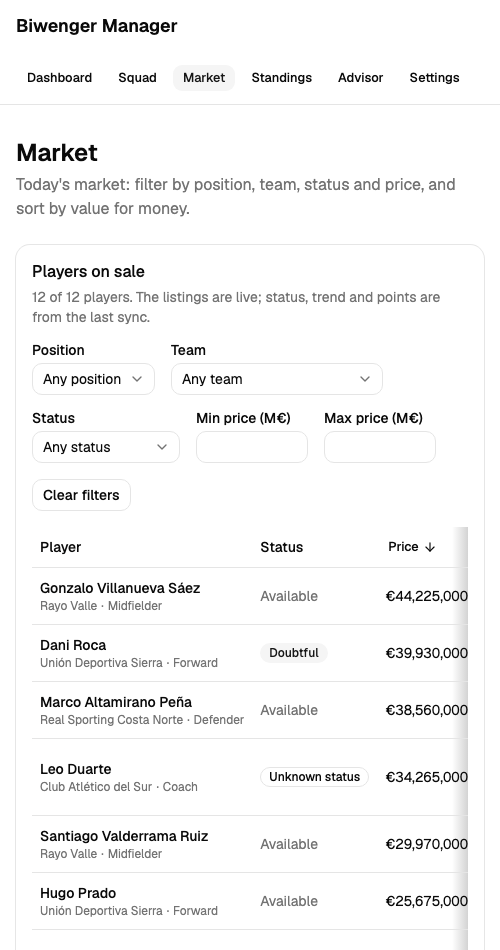
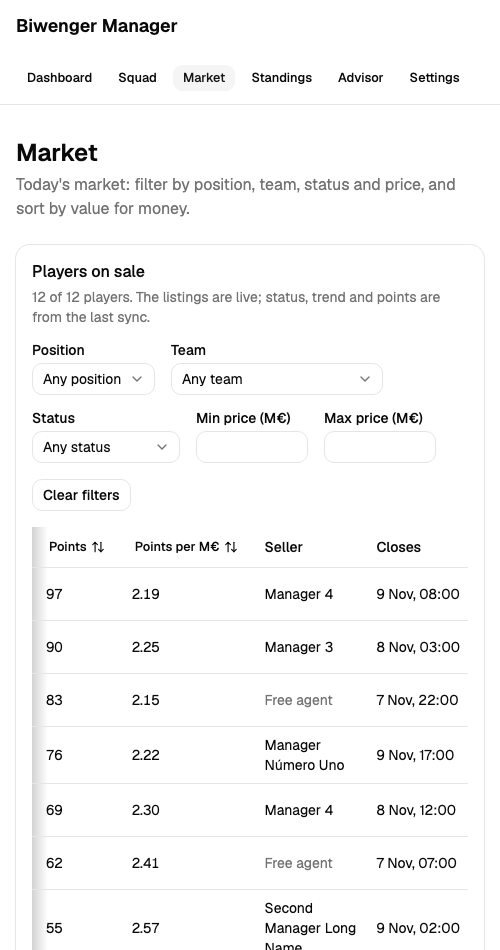
fix: keep short seller names on one line when the market table scrolls

diff --git a/frontend/src/features/market/MarketTable.tsx b/frontend/src/features/market/MarketTable.tsx
@@ -79,7 +79,7 @@ export function MarketTable({
             <TableCell className="tabular-nums">
               {pointsPerMillion.format(player.pointsPerMillion)}
             </TableCell>
-            <TableCell className="whitespace-normal">
+            <TableCell className="min-w-28 whitespace-normal">
               <SellerName seller={player.seller} />
             </TableCell>
             <TableCell>

diff --git a/docs/tutorial/journal/0092-market-table-width.md b/docs/tutorial/journal/0092-market-table-width.md
@@ -12,14 +12,14 @@
 
 1. **Reproduced the problem with harder data.** The demo server from [#93](0093-player-link-affordance.md) has long names on purpose. With them the table was 1447px wide in a 1088px card, so both Seller and Closes were out of view, not just Closes.
 2. **Merged the columns nothing sorts by.** Team and position moved under the player's name, as a small second line. That frees the most width and costs no feature, because neither column had a sort button.
-3. **Shortened the closing time** to `30 Oct, 11:15` with a new `formatShortDateTime`. The full date stays in the `title` of a `<time>` element. Long seller names now wrap.
+3. **Shortened the closing time** to `30 Oct, 11:15` with a new `formatShortDateTime`. The full date stays in the `title` of a `<time>` element. Long seller names now wrap, down to a minimum width.
 4. **Added a scroll shadow for every table.** About ten lines in `index.css` target shadcn's `data-slot='table-container'`, so the generated `ui/table.tsx` didn't change and the squad table got the same fix. It is pure CSS: the shadows stay in place, and card-coloured covers scroll with the content and hide the shadow at the end you have reached.
 5. **Measured instead of guessing.** The script from #93 read each table's `clientWidth` and `scrollWidth` in headless Chrome, and could lay the page out at a real 390px, under the window minimum chapter 05 warned about.
 
 | Page | 1280px | 1024px | 500px |
 |---|---|---|---|
 | Market, before | 1447 in 1088 | not measured | not measured |
-| Market, after | fits | 1017 in 960, scrolls | 1017 in 436, scrolls |
+| Market, after | fits | 1056 in 960, scrolls | 1056 in 436, scrolls |
 | Squad (no layout change) | fits | 970 in 960, scrolls | 970 in 436, scrolls |
 
 6. **Looked at the screenshots** at [1280px](../images/92/market-1280.png) and [500px](../images/92/market-500.png), and at the table scrolled to the middle and to the end, to see the shadow move.
@@ -27,6 +27,7 @@
 
 ## Corrections
 
+- **Short sellers wrapped at narrow widths.** Once a table scrolls it shrinks to its minimum, so "Free agent" and "Manager 4" took two lines. The screenshot showed it. `min-w-28` on the seller cell fixed it, and the table still fits at 1280px.
 - **The measuring loop printed nothing useful at first.** zsh doesn't split `$s` into words as bash does, so the script got one argument. The numbers above come from the rerun.
 
 Human review may add more corrections. Record them here before merging.
